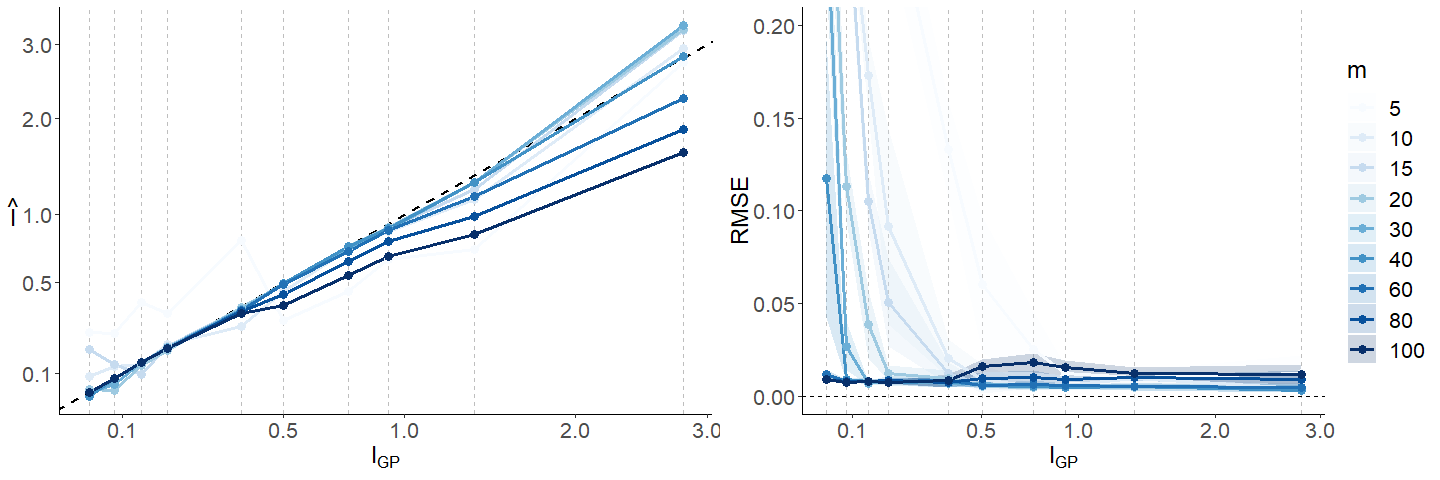
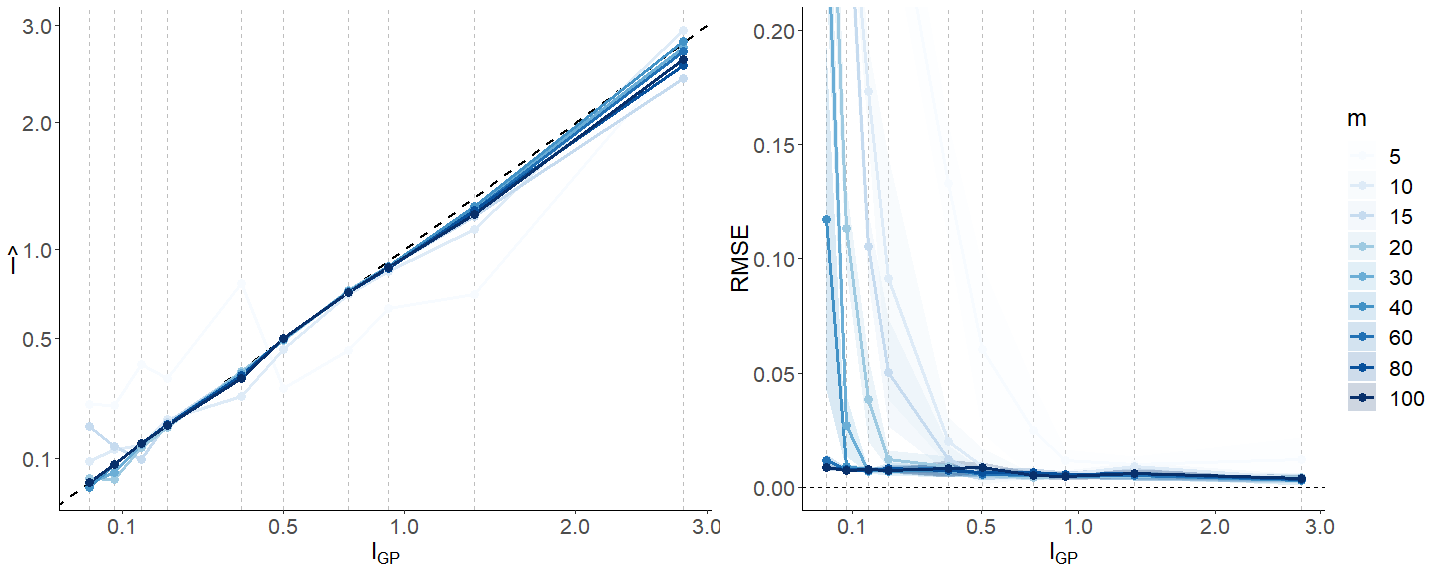
remove text and fig 8 about sampling issue due to large m

diff --git a/Paper/Manuscript_Stats&Comp/manuscript_STCO.tex b/Paper/Manuscript_Stats&Comp/manuscript_STCO.tex
@@ -709,18 +709,19 @@ Otherwise, go back to B1.
 In this section, we first illustrate that accurate estimates of the length-scale implies accurate approximations via HSGPs. Figure~\ref{fig7_lscale_comparison} left shows a comparison of the length-scale estimates
 obtained from the exact GP and HSGP models with a squared exponential kernel, from various noisy datasets drawn from underlying functions with varying smoothness. Different values for the number of basis functions $m$ are used when estimating the HSGP models, and the boundary factor $c$ is set to a valid and optimum value in every case by using eq.~(\ref{eq_c_vs_l_QE}). Figure~\ref{fig7_lscale_comparison} (right) shows the RMSE of the HSGP models with the exact GP model as the reference. It can be seen that accurate estimates of the length-scale imply small RMSEs.
 
-If much bigger $m$ than necessary is used (i.e., too much large $m$ relative to the wigglyness of the function to be learned), there can be computational challenges. In Figure~\ref{fig7_lscale_comparison}, we see that increasing $m$ much beyond what is needed, is leading to underestimating the lengthscale. Examining the convergence diagnostics revealed problems in exploring larger length-scales, which is likely due to the posterior having a difficult funnel shape \citep[see, e.g.,][]{Betancourt+Girolami:2019}. A largely underestimation of the length-scale leads to overestimating the underlying functions (see Figure~\ref{fig8_overestimated_posterios} as an illustration of the overestimating effect as a function of $m$ in a moderate smooth dataset). Increasing the boundary factor $c$ (more than that recommended in equations~\eqref{sec_num_equations}) reduces the funnellness of the posterior and the sampling problems in exploring larger length-scales mostly disappear and so underestimating the length-scale.
+%If much bigger $m$ than necessary is used (i.e., too much large $m$ relative to the wigglyness of the function to be learned), there can be computational challenges. In Figure~\ref{fig7_lscale_comparison}, we see that increasing $m$ much beyond what is needed, is leading to underestimating the lengthscale. Examining the convergence diagnostics revealed problems in exploring larger length-scales, which is likely due to the posterior having a difficult funnel shape \citep[see, e.g.,][]{Betancourt+Girolami:2019}. A largely underestimation of the length-scale leads to overestimating the underlying functions (see Figure~\ref{fig8_overestimated_posterios} as an illustration of the overestimating effect as a function of $m$ in a moderate smooth dataset). Increasing the boundary factor $c$ (more than that recommended in equations~\eqref{sec_num_equations}) reduces the funnellness of the posterior and the sampling problems in exploring larger length-scales mostly disappear and so underestimating the length-scale.
+%
+%Following our recommended diagnostic tool is a safety procedure to avoid using too much large $m$ that needed, as it allows us to select optimal values for $m$ and $c$ in each iteration.
+%
+%\begin{figure}
+%\centering
+%\includegraphics[width=0.5\textwidth, trim = 0mm 0mm 0mm 0mm, clip]{fig8_overestimated_posterios.png}
+%\caption{Overestimation of the data points when using too many number of basis functions relative to the wigglyness of the data points. The dashed red line represents the true underlying function.}
+%  \label{fig8_overestimated_posterios}
+%\end{figure}
 
-Following our recommended diagnostic tool is a safety procedure to avoid using too much large $m$ that needed, as it allows us to select optimal values for $m$ and $c$ in each iteration.
-
-\begin{figure}
-\centering
-\includegraphics[width=0.5\textwidth, trim = 0mm 0mm 0mm 0mm, clip]{fig8_overestimated_posterios.png}
-\caption{Overestimation of the data points when using too many number of basis functions relative to the wigglyness of the data points. The dashed red line represents the true underlying function.}
-  \label{fig8_overestimated_posterios}
-\end{figure}
-
-Table~\ref{tab1_diagnostic} shows the iterative steps of applying the diagnostic procedure explained in Section~\ref{sec_user_guide} over some of the data sets also used in the analysis in Figure~\ref{fig7_lscale_comparison} left. It is clearly visible that by following our recommendations, an optimum solution with minimum computational requirements is achieved in these cases. Figure~\ref{fig10_diagnostic_lscale_comparison} graphically compares the exact GP length-scale and the estimated HSGP length-scale in every iteration and data set. Between two and four iterations, depending on wigglyness of the function to be learned and the distance between the initial guess of the length scale and the true length scale, are sufficient to reach the optimal values of $m$ and $c$. Furthermore, as can be seen in Figure~\ref{fig10_diagnostic_lscale_comparison}, following our diagnostic recommendations avoids the use of a too large number of basis functions relative to the true length scale that would cause overestimating the underlying function and bias the posterior towards smaller length scale values.
+Table~\ref{tab1_diagnostic} shows the iterative steps of applying the diagnostic procedure explained in Section~\ref{sec_user_guide} over some of the data sets also used in the analysis in Figure~\ref{fig7_lscale_comparison} left. It is clearly visible that by following our recommendations, an optimum solution with minimum computational requirements is achieved in these cases. Figure~\ref{fig10_diagnostic_lscale_comparison} graphically compares the exact GP length-scale and the estimated HSGP length-scale in every iteration and data set. Between two and four iterations, depending on wigglyness of the function to be learned and the distance between the initial guess of the length scale and the true length scale, are sufficient to reach the optimal values of $m$ and $c$. 
+%Furthermore, as can be seen in Figure~\ref{fig10_diagnostic_lscale_comparison}, following our diagnostic recommendations avoids the use of a too large number of basis functions relative to the true length scale that would cause overestimating the underlying function and bias the posterior towards smaller length scale values.
 
 As concrete examples, the iterative steps applied to perform diagnostic on two of the data sets in Table~\ref{tab1_diagnostic} are described in Appendix~\ref{sec_ex_iterative_steps}.
 
@@ -850,6 +851,7 @@ The HSGP model is fitted following the recommended iterative steps as in Section
 
 \begin{table}
 \centering
+\setlength{\tabcolsep}{4pt}
 \begin{tabular}{cccccccc}
 \arrayrulecolor{gray}\hline \\[-3mm]
 iter. & $\ell$ & $c$ & $m$ & $\hat{\ell}$ & $\hat{\ell} + 0.01 \geq \ell$ & RMSE & RMSE* \\ 
@@ -1059,20 +1061,17 @@ Figure \ref{ch5_fig15_Posteriors_exII} shows the data-generating GP function, fr
 Figure \ref{ch5_fig16_errors_exII} shows the difference functions between the data-generating function and the GP, HSGP and spline-based models, respectively.
 
 \begin{figure*}
-\begin{center}
-\begin{tabular}{ c c c c}
-\includegraphics[scale=0.40, trim = 0mm 18mm 35mm 20mm, clip]{ch5_fig15_gpfun_exII.pdf} &
-\includegraphics[scale=0.40, trim = 19mm 18mm 35mm 20mm, clip]{ch5_fig15_bffun_exII.pdf}  & 
-\includegraphics[scale=0.40, trim = 19mm 18mm 35mm 20mm, clip]{ch5_fig15_spfun_exII.pdf} & 
-\includegraphics[scale=0.35, trim = 150mm 10mm 0mm 0mm, clip]{ch5_fig15_colorbar_vertical_exII.pdf}
-\end{tabular}
-\end{center}
+\centering
+\includegraphics[scale=0.36, trim = 1mm 18mm 39.2mm 20mm, clip]{ch5_fig15_gpfun_exII.pdf}
+\includegraphics[scale=0.36, trim = 19mm 18mm 39.2mm 20mm, clip]{ch5_fig15_bffun_exII.pdf}
+\includegraphics[scale=0.36, trim = 19mm 18mm 39.2mm 20mm, clip]{ch5_fig15_spfun_exII.pdf}
+\includegraphics[scale=0.30, trim = 150mm 5mm 0mm 20mm, clip]{ch5_fig15_colorbar_vertical_exII.pdf}
 \caption{Data-generating function (a) and posterior predictive mean functions of the GP (b), HSGP (c) and spline-based (d) models. Sample points are plotted as circles}
   \label{ch5_fig15_Posteriors_exII}
 \end{figure*}
 
 
-\begin{figure}
+\begin{figure*}
 \centering
 \subfigure{\includegraphics[scale=0.36, trim = 1mm 18mm 39.2mm 20mm, clip]{ch5_fig16_errorGP_exII.pdf}}
 \subfigure{\includegraphics[scale=0.36, trim = 19mm 18mm 39.2mm 20mm, clip]{ch5_fig16_errorHSGP_exII.pdf}}
@@ -1080,7 +1079,7 @@ Figure \ref{ch5_fig16_errors_exII} shows the difference functions between the da
 \subfigure{\includegraphics[scale=0.30, trim = 150mm 5mm 0mm 20mm, clip]{ch5_fig16_error_colorbar_exII.pdf}}
 \caption{Error between the data-generating function and posterior mean functions of the GP (a), HSGP (b) and spline-based (c) models. Sample points are plotted as circles.}
   \label{ch5_fig16_errors_exII}
-\end{figure}
+\end{figure*}
 
 In order to assess performance of the models as a function of the number of basis functions, boundary factor and knots, different models with different number of basis functions, for the HSGP, and different number of knots, for the spline-based model, have been fitted. In each of these models, the same boundary factor, number of basis functions and knots per dimension were used. Figure \ref{ch5_fig17_RMSE_exII}-left shows the root mean squared error (RMSE), computed against the data-generating function, as a function of the boundary factor $c$ and number of univariate basis functions $m$, for the HSGP, and knots, for the spline-based model. From Figures \ref{ch5_fig16_errors_exII} and \ref{ch5_fig17_RMSE_exII}-left, it can be seen an accurate approximation of the HSGP to the exact GP. However, the performance of the spline-based model is significantly worse. 
 
@@ -1091,9 +1090,9 @@ The Stan model codes for the exact GP, the HSGP and the spline-based models of t
 
 \begin{figure}
 \centering
-\subfigure{\includegraphics[scale=0.38, trim = 0mm 0mm 5mm 0mm, clip]{ch5_fig17_RMSE_exII.pdf}}
-\subfigure{\includegraphics[scale=0.38, trim = 0mm 0mm 10mm 0mm, clip]{ch5_fig17_time_exII.pdf}}
-\subfigure{\includegraphics[scale=0.40, trim = 28mm 35mm 112mm 0mm, clip]{ch5_fig17_legend_exII.pdf}}
+\subfigure{\includegraphics[scale=0.2, trim = 0mm 0mm 5mm 0mm, clip]{ch5_fig17_RMSE_exII.pdf}}
+\subfigure{\includegraphics[scale=0.2, trim = 0mm 0mm 10mm 0mm, clip]{ch5_fig17_time_exII.pdf}}
+\subfigure{\includegraphics[scale=0.35, trim = 28mm 70mm 112mm 0mm, clip]{ch5_fig17_legend_exII.pdf}}
 \caption{Root mean square error (RMSE) (left) and computational time (right) in seconds per iteration (iteration of the HMC sampling method) of the different methods, and plotted as a function of the boundary factor $c$, number of basis functions $m$ and knots.}
   \label{ch5_fig17_RMSE_exII}
 \end{figure}
